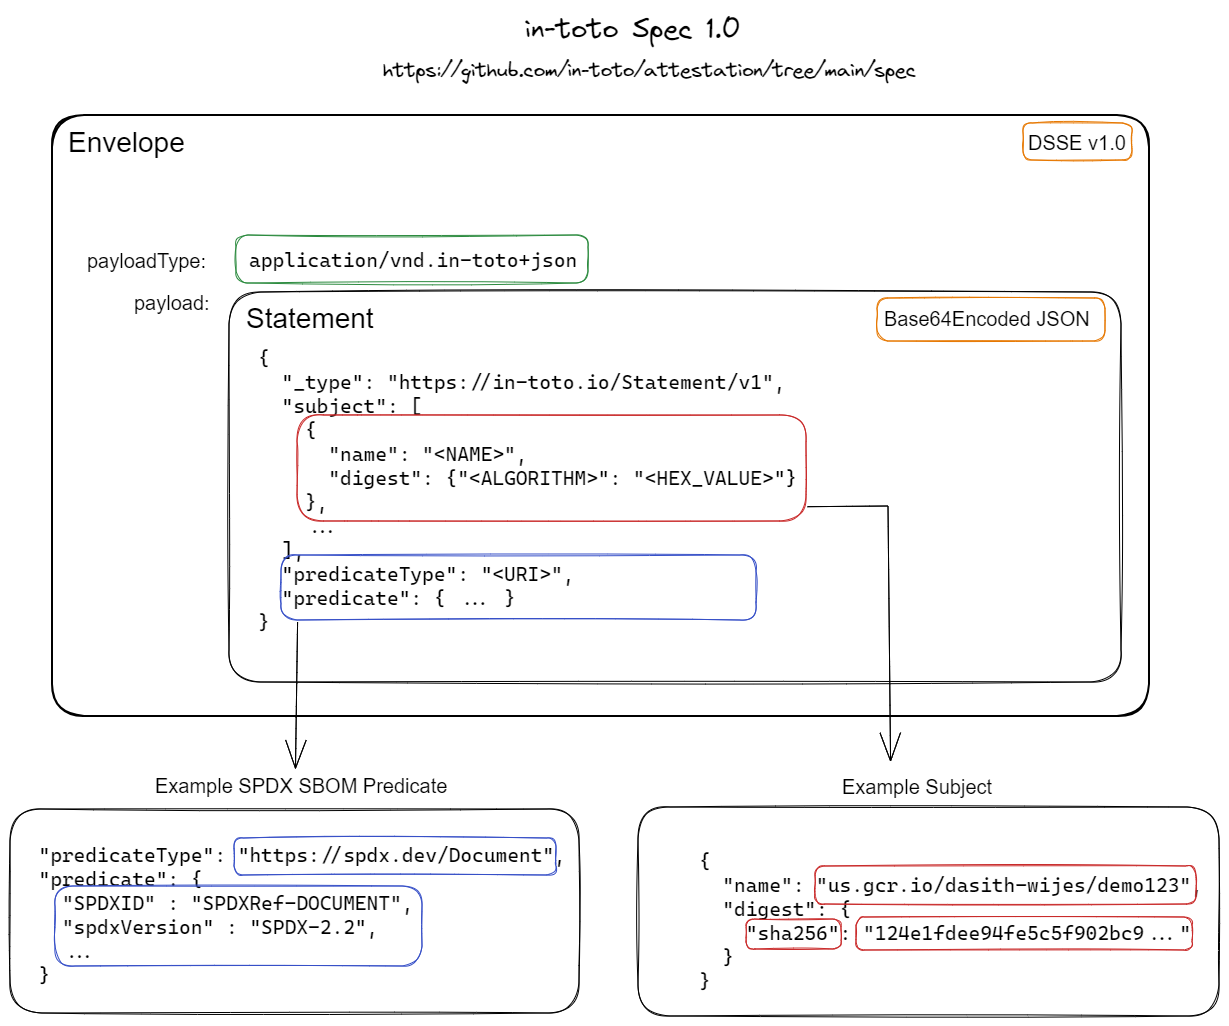
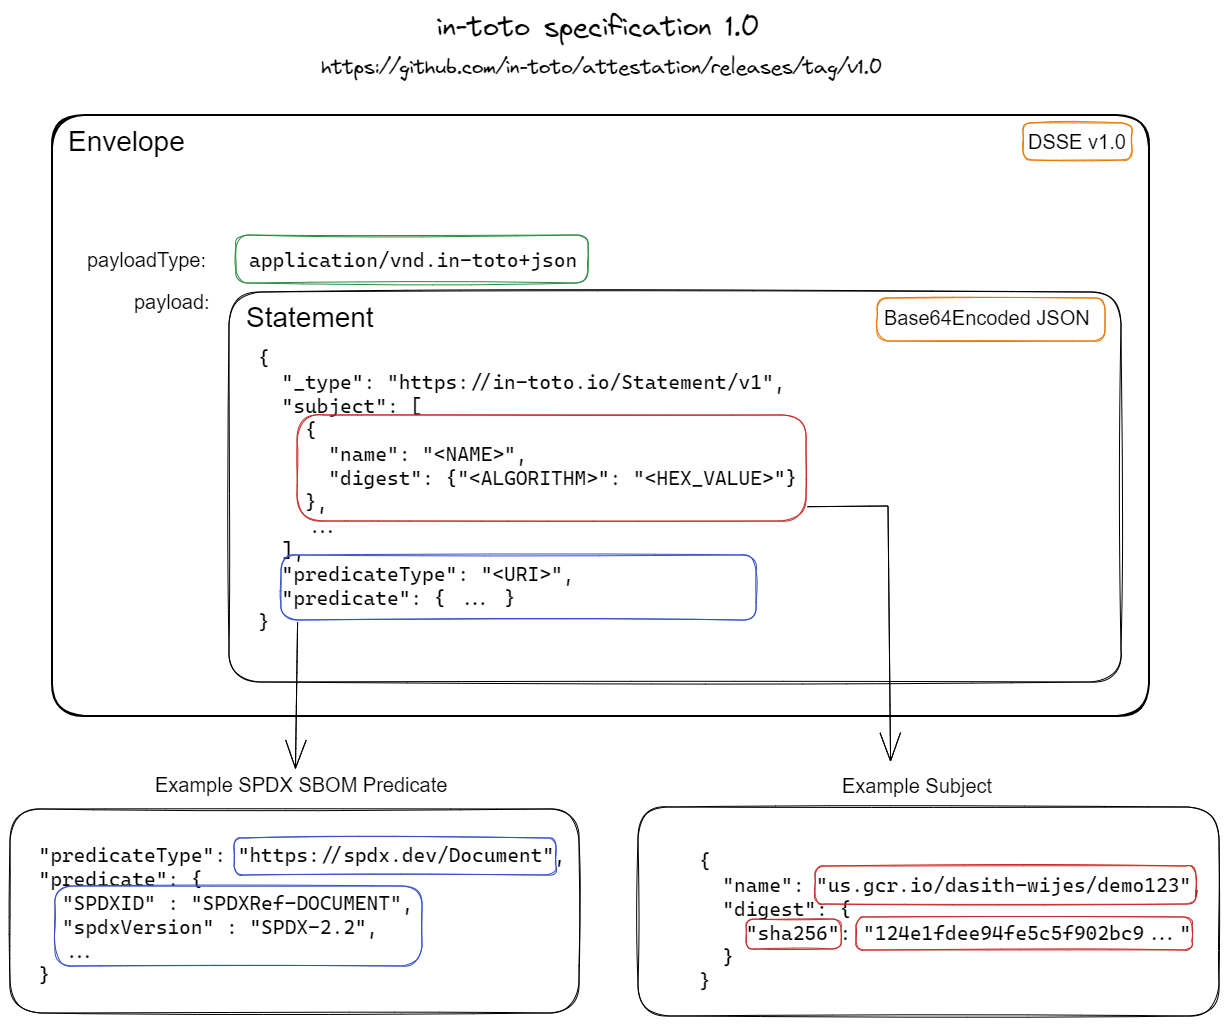
refer to release by tag and resize image

diff --git a/spec/README.md b/spec/README.md
@@ -17,7 +17,7 @@ It has four layers that are independent but designed to work together:
 
 The following diagram visualises the relationships between the envelope, statement and predicate layers.
 
-![Relationships between the envelope, statement and predicate layers](../images/specification.png)
+<img src="../images/specification.png" alt="Relationships between the envelope, statement and predicate layers" width="600">
 
 The [validation model] provides pseudocode showing how these layers fit
 together. See the [documentation] for more background and examples.
